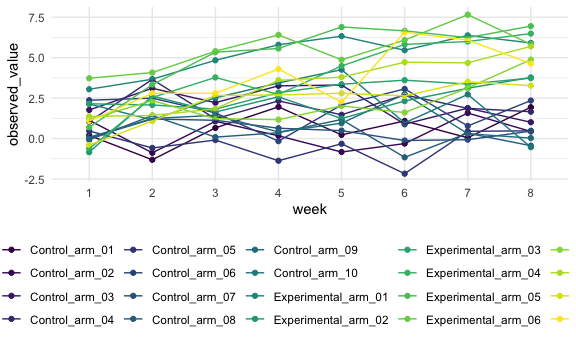
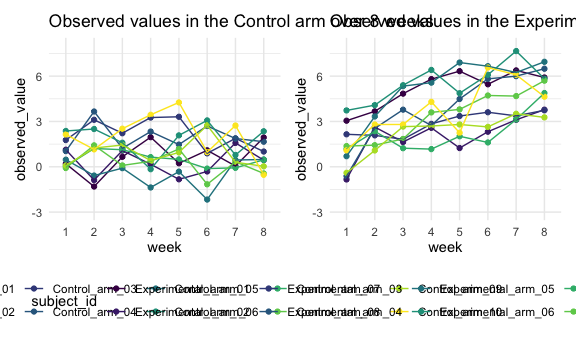
separate the plot in problem 2 into two separate plot according to their group (experimental or control)

diff --git a/hw5_dg3187.md b/hw5_dg3187.md
@@ -398,14 +398,35 @@ make a spaghetti plot showing observations on each subject over time,
 and comment on differences between groups.
 
 ``` r
-plot =
+library(patchwork)
+plot_control =
   lda_df %>%
+  filter(group == "Control_arm") %>% 
   unite(subject_id, group, id) %>% 
   ggplot(aes(x = week, y = observed_value, group = subject_id, color = subject_id)) +
   geom_point() +
-  geom_line()
+  geom_line()+
+  scale_y_continuous(
+    limits = c(-3, 8)) +
+  labs(
+    title = "Observed values in the Control arm over 8 weeks")
 
-plot
+
+
+plot_exp =
+  lda_df %>%
+  filter(group == "Experimental_arm") %>% 
+  unite(subject_id, group, id) %>% 
+  ggplot(aes(x = week, y = observed_value, group = subject_id, color = subject_id)) +
+  geom_point() +
+  geom_line() +
+  scale_y_continuous(
+    limits = c(-3, 8)) +
+  labs(
+    title = "Observed values in the Experimental arm over 8 weeks")
+
+
+plot_control + plot_exp
 ```
 
 <img src="hw5_dg3187_files/figure-gfm/unnamed-chunk-9-1.png" width="90%" />
@@ -413,7 +434,9 @@ plot
 From the spaghetti plot, we can tell that the subjects in the two groups
 have similar values at the beginning of the study. During the 8 weeks of
 observation, the subjects in the experimental arm collectively have a
-higher measurements than subjects in the control arm.
+higher measurements than subjects in the control arm. Also, the subjects
+in the experimental arm have their observed value increased over 8
+weeks.
 
 ## Problem 3
 
